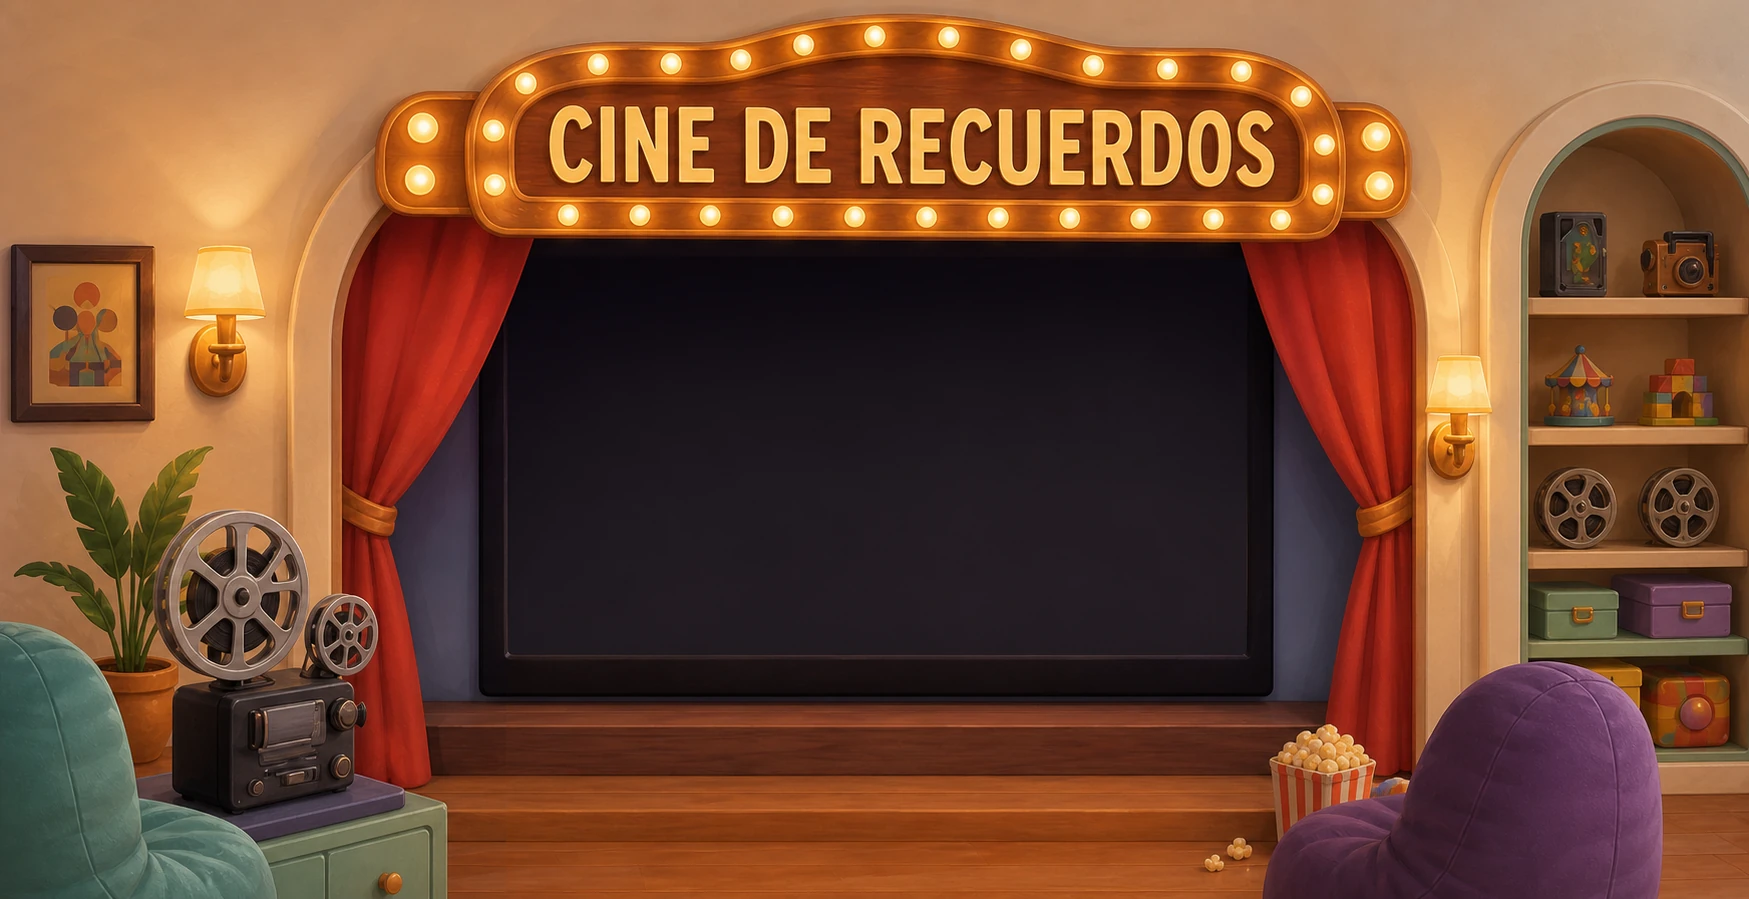
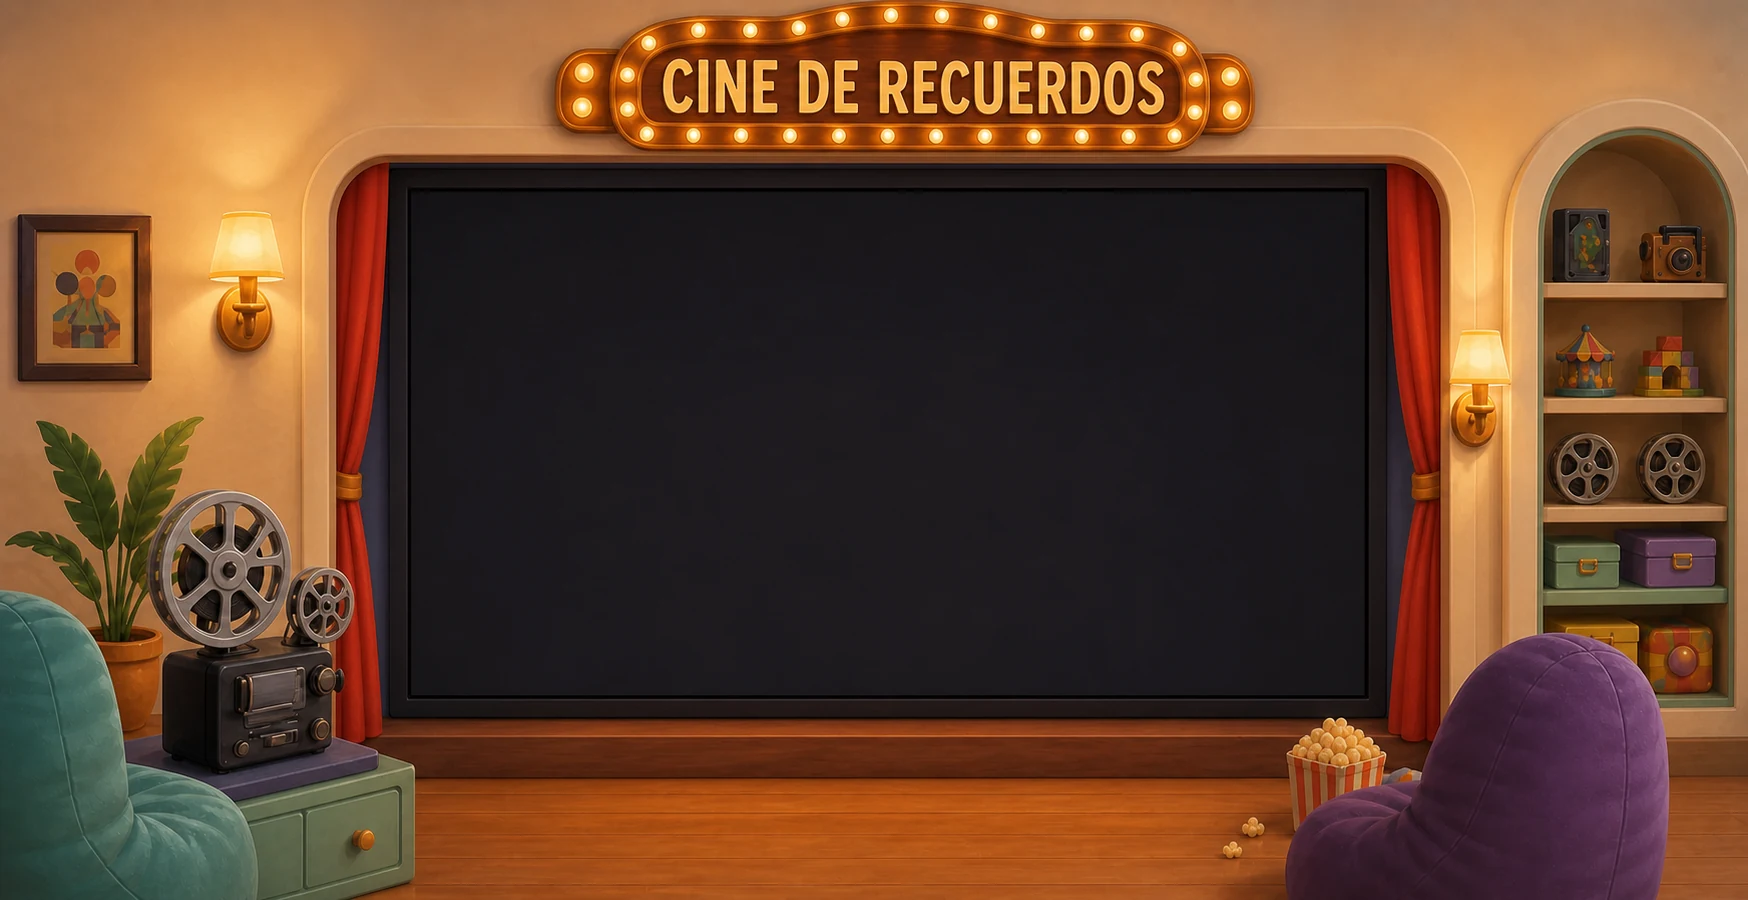
Rediseña los espacios de creación

diff --git a/src/index.css b/src/index.css
@@ -4008,10 +4008,10 @@ p {
 .record-page--video .cinema-screen.video-viewfinder {
   position: absolute;
   z-index: 5;
-  top: 26.4%;
-  left: 27.3%;
-  width: 46.2%;
-  height: 51.2%;
+  top: 20.8%;
+  left: 23.3%;
+  width: 55.2%;
+  height: 56.8%;
   overflow: hidden;
   border: 0;
   border-radius: 1.2%;
@@ -4058,7 +4058,7 @@ p {
     aspect-ratio: 1.1;
     background-size: auto 100%;
   }
-  .record-page--video .cinema-screen.video-viewfinder { left: 9.7%; width: 81.6%; }
+  .record-page--video .cinema-screen.video-viewfinder { top: 20.8%; left: 3.5%; width: 93%; height: 56.8%; }
   .record-page--video .cinema-console { right: 9%; bottom: 2%; left: 9%; min-height: 56px; padding: 6px 8px; }
   .record-page--video .cinema-effects { padding-inline: 9px; }
   .record-page--video .cinema-record { width: 48px; height: 48px; }
@@ -4117,10 +4117,10 @@ p {
 .voice-room__mic {
   position: absolute;
   z-index: 15;
-  top: 24%;
-  left: 42.5%;
-  width: 15%;
-  height: 65%;
+  top: 18.5%;
+  left: 39%;
+  width: 22%;
+  height: 74%;
   border: 0;
   border-radius: 48%;
   background: transparent;
@@ -4183,15 +4183,15 @@ p {
 }
 .story-room__page,
 .story-room__tools { position: absolute; z-index: 10; color: #4b3a35; }
-.story-room__page { top: 37%; left: 29%; width: 20.5%; height: 38%; }
-.story-room__date { margin: 0 0 3px; color: #8c766b; font-family: "Segoe Print", "Bradley Hand", cursive; font-size: clamp(.48rem, 1.1vw, .7rem); text-transform: capitalize; }
+.story-room__page { top: 31%; left: 17.5%; width: 31%; height: 51%; }
+.story-room__date { margin: 0 0 5px; color: #8c766b; font-family: "Segoe Print", "Bradley Hand", cursive; font-size: clamp(.56rem, 1.2vw, .78rem); text-transform: capitalize; }
 .story-room__title,
 .story-room__note { width: 100%; border: 0 !important; border-radius: 0 !important; outline: 0; background: transparent !important; color: #51403a; box-shadow: none !important; font-family: "Segoe Print", "Bradley Hand", "Comic Sans MS", cursive; }
-.story-room__title { height: 15%; padding: 0; font-size: clamp(.8rem, 2vw, 1.25rem); font-weight: 700; }
-.story-room__note { height: 69%; min-height: 0; resize: none; padding: 2px 0; font-size: clamp(.6rem, 1.45vw, .94rem); line-height: 1.55; }
+.story-room__title { height: 17%; padding: 0; font-size: clamp(.95rem, 2.2vw, 1.4rem); font-weight: 700; }
+.story-room__note { height: 67%; min-height: 0; resize: none; padding: 5px 0 2px; font-size: clamp(.72rem, 1.6vw, 1.02rem); line-height: 1.58; }
 .story-room__title::placeholder, .story-room__note::placeholder { color: #9e8c82; opacity: .8; }
 .story-room__letters { position: absolute; right: 0; bottom: 0; color: #9b877b; font-family: "Segoe Print", cursive; font-size: .54rem; }
-.story-room__tools { top: 39%; left: 52%; display: grid; width: 19%; gap: 8px; }
+.story-room__tools { top: 33%; left: 52%; display: grid; width: 30%; gap: 10px; }
 .story-room__lock { display: flex; align-items: center; gap: 6px; border-radius: 12px; background: rgb(255 251 233 / 72%); padding: 7px; font-size: clamp(.55rem, 1vw, .72rem); font-weight: 850; }
 .story-room__lock input { width: 17px; height: 17px; accent-color: #7459aa; }
 .story-room__unlock { display: grid; gap: 3px; color: #765f56; font-size: .6rem; font-weight: 800; }
@@ -4228,8 +4228,8 @@ p {
   color: #fff;
   backdrop-filter: blur(8px);
 }
-.photo-room__today { position: absolute; z-index: 30; top: 25%; left: 50%; transform: translateX(-50%); border-radius: 999px; background: rgb(255 240 189 / 88%); color: #684414; padding: 5px 10px; font-size: .65rem; font-weight: 900; }
-.photo-room__preview { position: absolute; z-index: 8; top: 29.8%; left: 30.7%; width: 41.3%; height: 44.8%; overflow: hidden; border-radius: 2.5%; background: #151319; }
+.photo-room__today { position: absolute; z-index: 30; top: 25.2%; left: 50%; transform: translateX(-50%); border-radius: 999px; background: rgb(255 240 189 / 88%); color: #684414; padding: 5px 10px; font-size: .65rem; font-weight: 900; }
+.photo-room__preview { position: absolute; z-index: 8; top: 29.5%; left: 26.2%; width: 47.9%; height: 53.3%; overflow: hidden; border-radius: 2.5%; background: #151319; }
 .photo-room__preview .sticker-stage { width: 100%; height: 100%; border-radius: 0; aspect-ratio: auto !important; background: #151319; }
 .photo-room__preview .camera-preview { display: block; width: 100%; height: 100%; min-height: 0; max-height: none; border: 0; border-radius: 0; aspect-ratio: auto; object-fit: contain; box-shadow: none; }
 .photo-room__controls { position: absolute; z-index: 25; right: 26%; bottom: 2%; left: 26%; display: flex; min-height: 60px; align-items: center; justify-content: center; gap: 9px; border: 1px solid rgb(255 255 255 / 25%); border-radius: 18px; background: rgb(75 44 79 / 76%); padding: 7px 10px; backdrop-filter: blur(10px); }
@@ -4242,23 +4242,23 @@ p {
 @media (max-width: 640px) {
   .world-scene__back, .photo-room__timelapse { width: 40px; height: 40px; }
   .voice-room { aspect-ratio: 1.05; background-size: auto 100%; }
-  .voice-room__mic { top: 24%; left: 35%; width: 30%; height: 64%; }
+  .voice-room__mic { top: 18.5%; left: 28%; width: 44%; height: 74%; }
   .voice-room__console { right: 7%; bottom: 2%; left: 7%; min-height: 54px; padding: 5px 7px; }
   .voice-room audio { width: min(155px, 42%); }
   .voice-room__console > small { display: none; }
   .story-room { aspect-ratio: 1.05; background-size: auto 100%; }
-  .story-room__page { top: 37%; left: 7%; width: 41%; height: 38%; }
-  .story-room__tools { top: 39%; left: 52%; width: 39%; gap: 5px; }
-  .story-room__date { font-size: .5rem; }
-  .story-room__title { font-size: .82rem; }
-  .story-room__note { font-size: .61rem; }
+  .story-room__page { top: 31%; left: 2%; width: 46%; height: 51%; }
+  .story-room__tools { top: 33%; left: 52%; width: 46%; gap: 6px; }
+  .story-room__date { font-size: .54rem; }
+  .story-room__title { font-size: .92rem; }
+  .story-room__note { font-size: .68rem; }
   .story-room__lock { padding: 5px; font-size: .55rem; }
   .story-room__save { min-height: 35px; font-size: .56rem; }
   .photo-room { aspect-ratio: 1.05; background-size: auto 100%; }
-  .photo-room__preview { top: 29.8%; left: 17.8%; width: 68%; height: 44.8%; }
+  .photo-room__preview { top: 29.5%; left: 8.5%; width: 83%; height: 53.3%; }
   .photo-room__controls { right: 8%; bottom: 2%; left: 8%; min-height: 54px; padding: 5px 7px; }
   .photo-room__controls .secondary-action, .photo-room__controls .primary-action { padding-inline: 8px; font-size: .65rem; }
-  .photo-room__today { top: 25%; font-size: .58rem; }
+  .photo-room__today { top: 25.2%; font-size: .58rem; }
 }
 
 @media (prefers-reduced-motion: reduce) {
